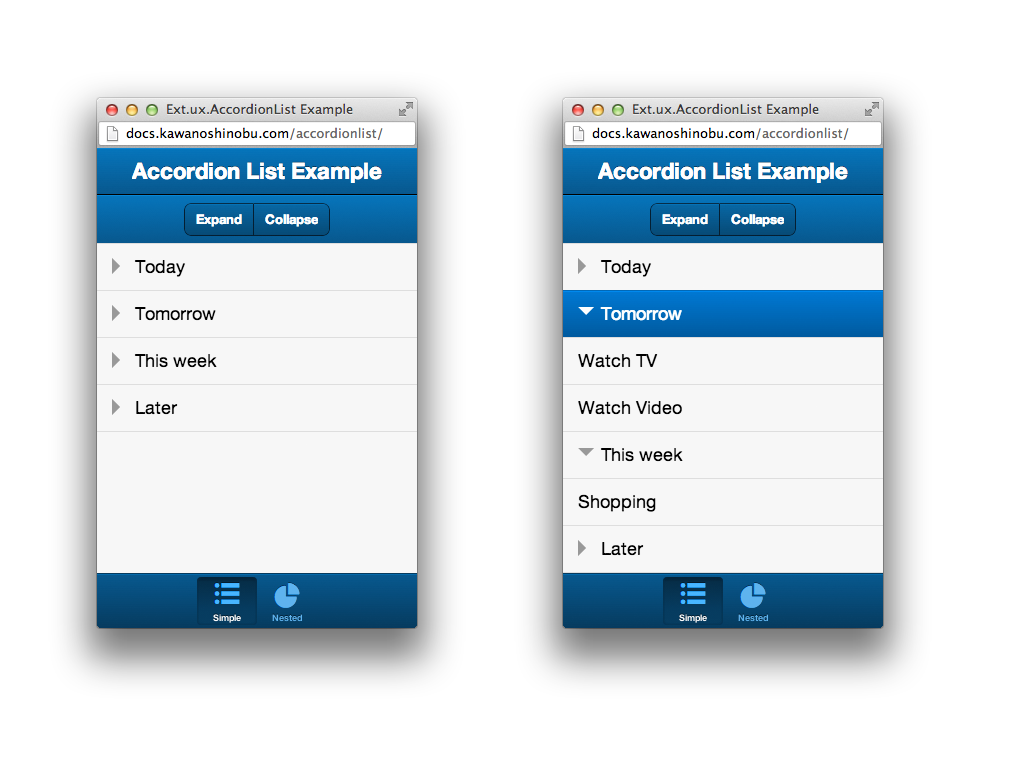
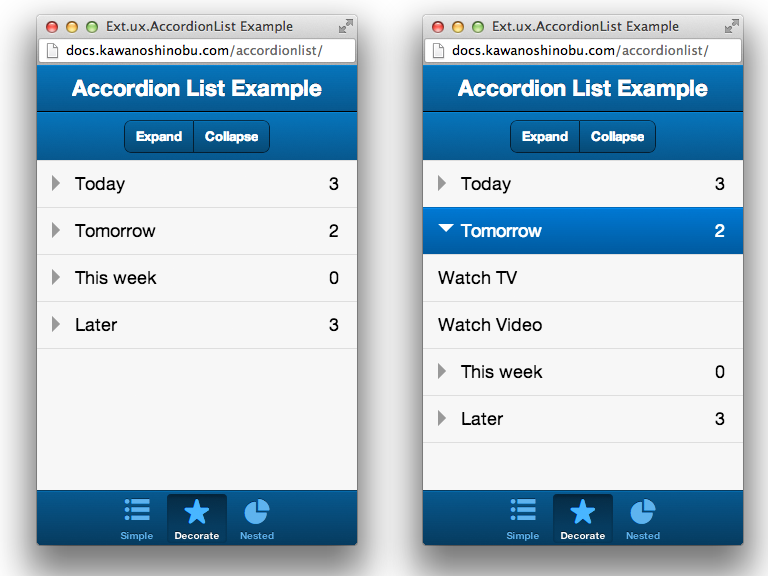
Now, I published 1.0.1 :)

diff --git a/example/app/view/Main.js b/example/app/view/Main.js
@@ -164,6 +164,8 @@ Ext.define('AccordionListExample.view.Main', {
                         ].join(''),
                         useSelectedHighlights: false,
                         showCount: true,
+                        animation: true,
+                        animationDuration: 300,
                         flex: 1,
                         itemId: 'PL',
                         listeners: {

diff --git a/README.md b/README.md
@@ -66,9 +66,15 @@ You will need to run the tests from a web server because XHR's cannot be made fr
 
 ## Version
 
-1.0
+1.0.1
 
 ## Change log
+
+[2013-06-15] **v1.0.1** KAWANO Shinobu (kawanoshinobu)
+
+* Add singleMode feature
+* Add animation feature
+* Add showCount feature
 
 [2013-05-05] **v1.0.0** KAWANO Shinobu (kawanoshinobu)
 
